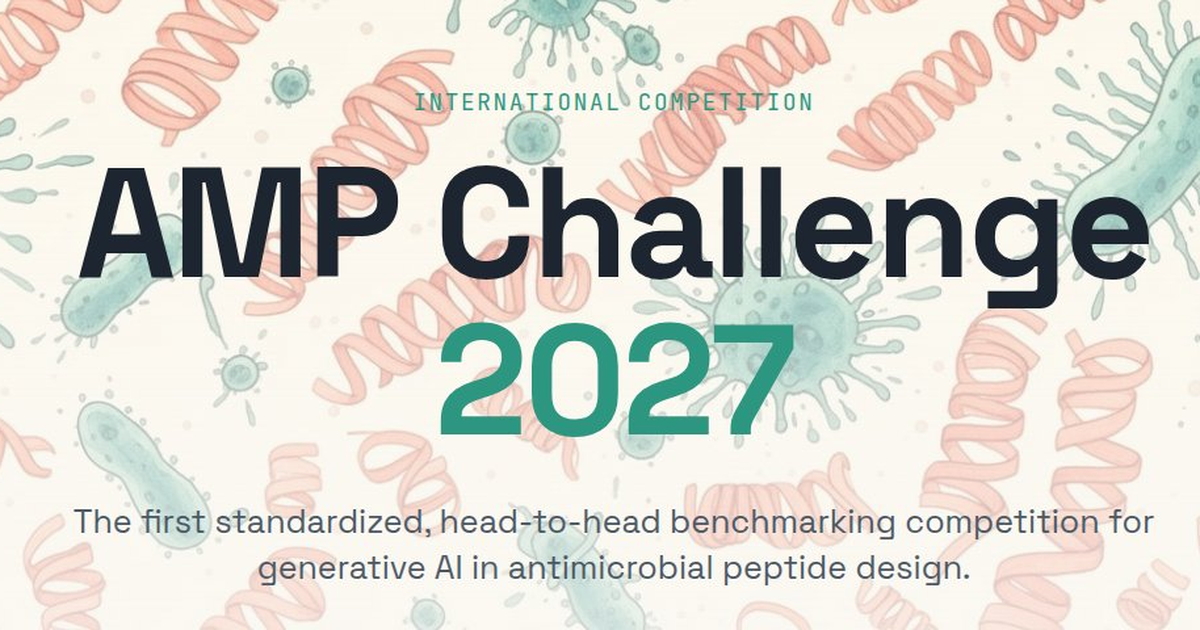
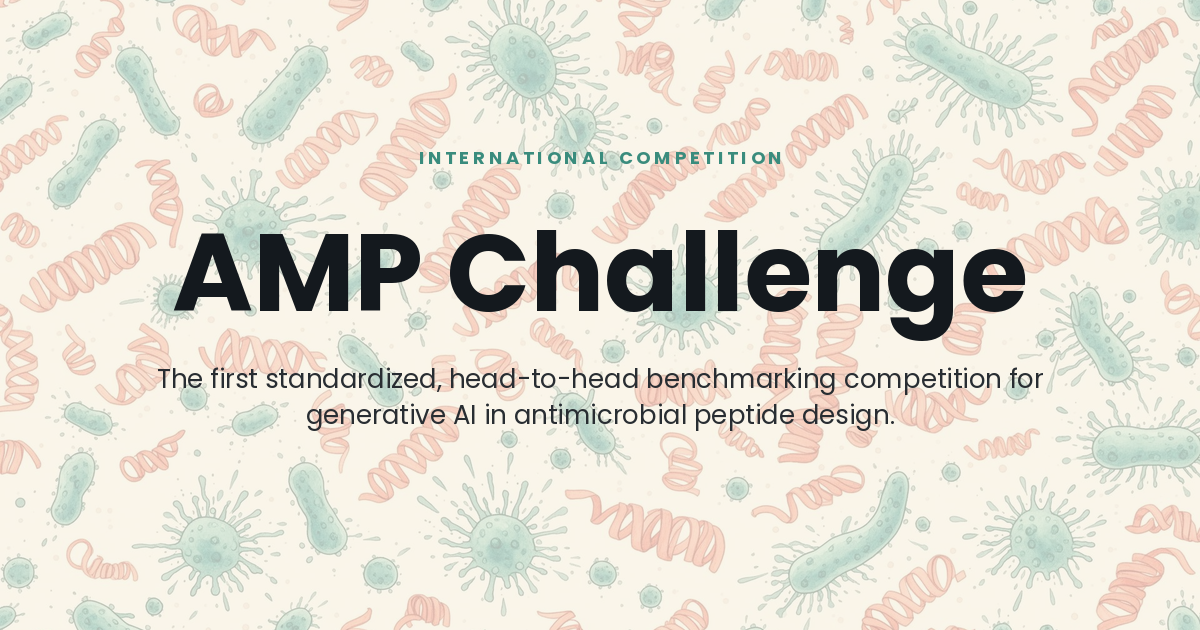
Remove year from challenge name and update og-image

diff --git a/index.html b/index.html
@@ -3,11 +3,11 @@
   <head>
     <meta charset="UTF-8" />
     <meta name="viewport" content="width=device-width, initial-scale=1.0" />
-    <title>AMP Challenge 2027 | Generative AI for Antimicrobial Peptide Design</title>
+    <title>AMP Challenge | Generative AI for Antimicrobial Peptide Design</title>
     <meta name="description" content="The first standardized benchmarking competition for generative AI in antimicrobial peptide design. Free wet-lab validation for your models." />
-    <meta name="author" content="AMP Challenge 2027" />
+    <meta name="author" content="AMP Challenge" />
 
-    <meta property="og:title" content="AMP Challenge 2027" />
+    <meta property="og:title" content="AMP Challenge" />
     <meta property="og:description" content="The first head-to-head benchmarking competition for generative AI in antimicrobial peptide design." />
     <meta property="og:type" content="website" />
     <meta property="og:image" content="https://szczurek-lab.github.io/amp-challenge-website/og-image.png" />

diff --git a/src/components/AboutSection.tsx b/src/components/AboutSection.tsx
@@ -71,7 +71,7 @@ const AboutSection = () => (
         <p className="text-surface-foreground leading-relaxed">
           As a result, it is frequently unclear whether an apparent success
           reflects the quality of the model itself or the quality of the manual
-          selection process. AMP Challenge 2027 addresses this through a common
+          selection process. AMP Challenge addresses this through a common
           benchmark design, a shared experimental pipeline, and transparent
           reporting requirements.
         </p>

diff --git a/src/components/HeroSection.tsx b/src/components/HeroSection.tsx
@@ -25,8 +25,6 @@ const HeroSection = () => (
         </p>
         <h1 className="font-display font-bold text-5xl md:text-7xl lg:text-8xl tracking-tight leading-[0.95] mb-6 text-glow">
           AMP Challenge
-          <br />
-          <span className="text-primary">2027</span>
         </h1>
         <p className="text-lg md:text-xl max-w-2xl mx-auto text-surface-foreground leading-relaxed mb-10">
           The first standardized, head-to-head benchmarking competition for

diff --git a/src/components/Navbar.tsx b/src/components/Navbar.tsx
@@ -20,7 +20,7 @@ const Navbar = () => {
     <nav className="fixed top-0 left-0 right-0 z-50 bg-background/90 backdrop-blur-lg border-b border-border/50">
       <div className="section-container flex items-center justify-between h-16">
         <a href="#" className="font-display font-bold text-lg tracking-tight text-foreground">
-          AMP Challenge <span className="text-primary">2027</span>
+          AMP Challenge
         </a>
 
         {/* Desktop */}
